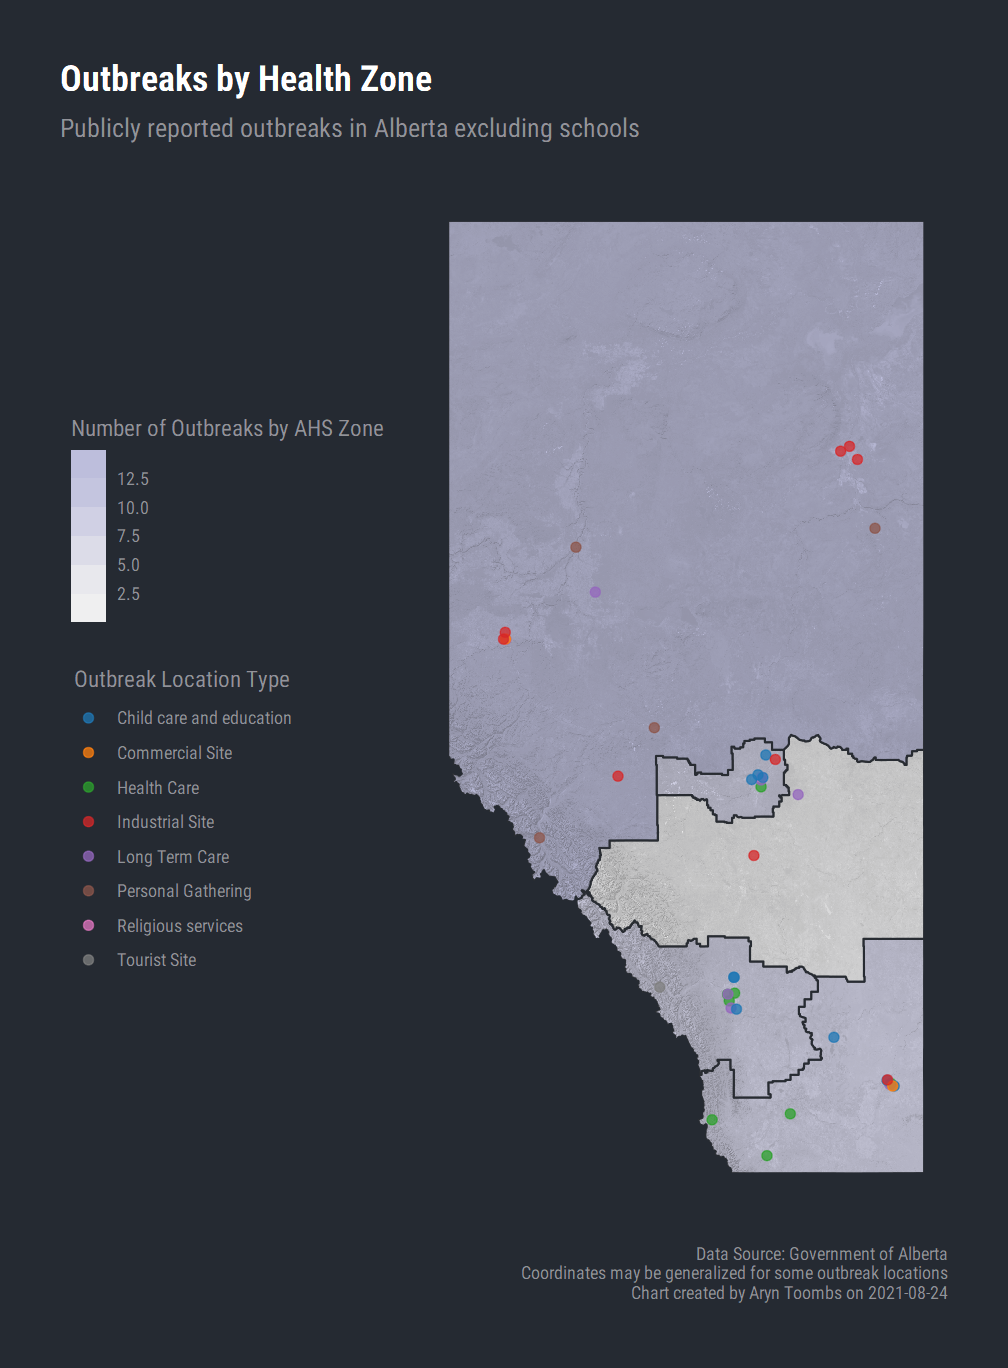
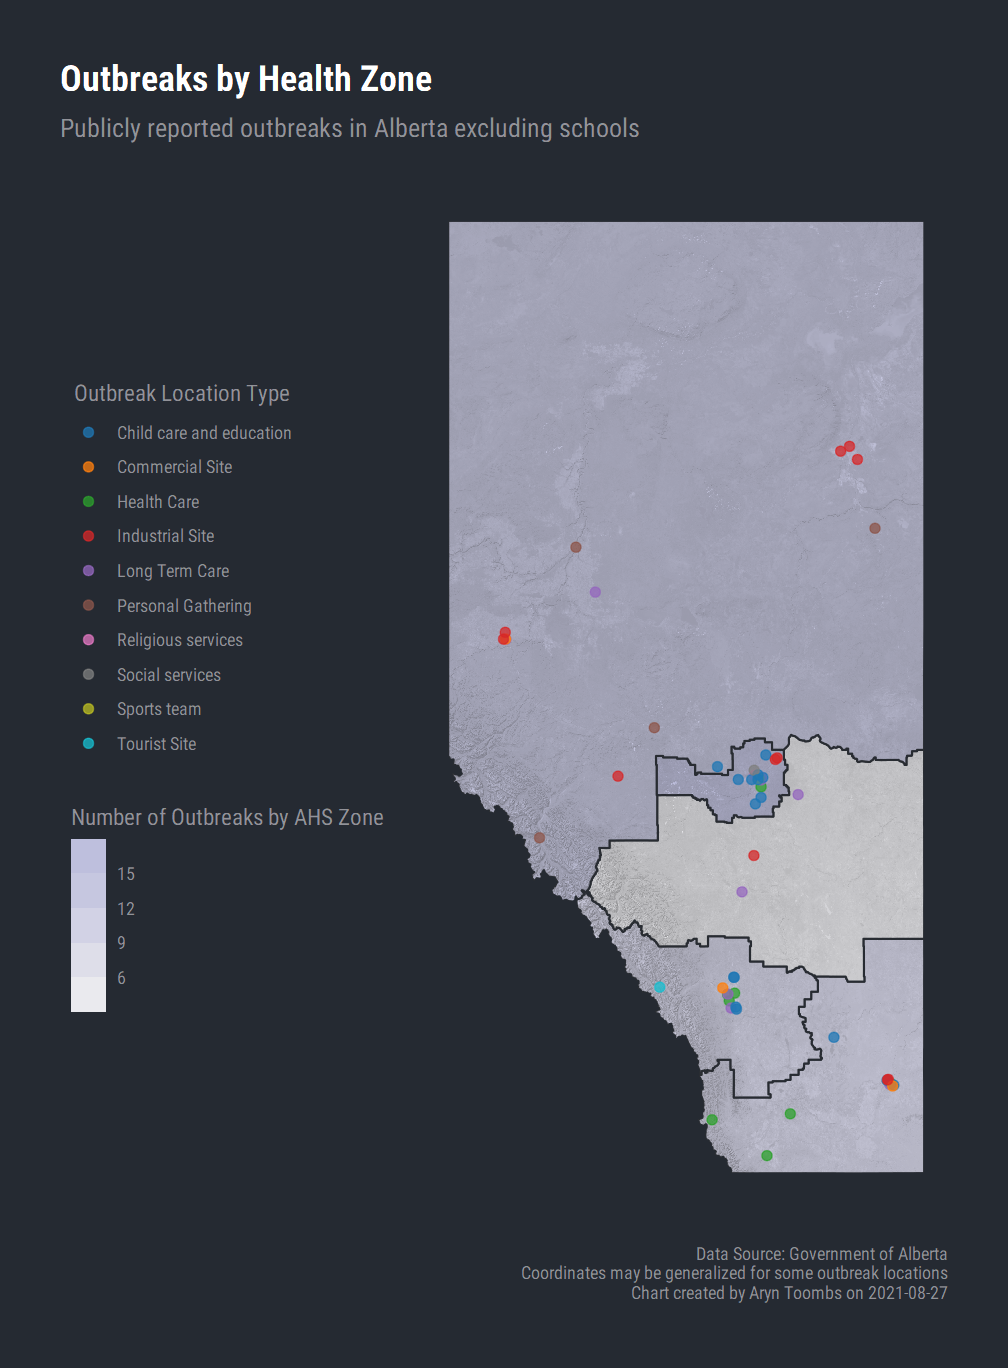
web

Changed region(s): [[0.0615, 0.2763, 0.369, 0.7368], [0.7073, 0.5526, 0.7688, 0.614], [0.7073, 0.7061, 0.7381, 0.7368]]

diff --git a/outbreaks/index.html b/outbreaks/index.html
@@ -168,7 +168,7 @@
       Calgary Zone
     </div>
     <div class="row box-bottom justify-content-center">
-      <h4>9</h4>
+      <h4>12</h4>
     </div>
   </div>
   <div class="col-sm ml-1 mr-1">
@@ -176,7 +176,7 @@
       Edmonton Zone
     </div>
     <div class="row box-bottom justify-content-center">
-      <h4>8</h4>
+      <h4>16</h4>
     </div>
   </div>
   <div class="col-sm ml-1 mr-1">
@@ -184,7 +184,7 @@
       South Zone
     </div>
     <div class="row box-bottom justify-content-center">
-      <h4>10</h4>
+      <h4>11</h4>
     </div>
   </div>
   <div class="col-sm ml-1 mr-1">
@@ -192,7 +192,7 @@
       Central Zone
     </div>
     <div class="row box-bottom justify-content-center">
-      <h4>2</h4>
+      <h4>3</h4>
     </div>
   </div>
   <div class="col-sm ml-1 mr-1">
@@ -200,12 +200,12 @@
       North Zone
     </div>
     <div class="row box-bottom justify-content-center">
-      <h4>13</h4>
+      <h4>14</h4>
     </div>
   </div>
 </div>
 <div class="row mb-3 pr-1 pt-1 justify-content-end">
-  <p class="m-1"><i class="bi bi-info-circle-fill"></i> Covid-19 outbreaks (not including schools, see below) current as of Tue, Aug 24, 2021. AHS non-school outbreak data updated on Tuesdays and Fridays.</p>
+  <p class="m-1"><i class="bi bi-info-circle-fill"></i> Covid-19 outbreaks (not including schools, see below) current as of Fri, Aug 27, 2021. AHS non-school outbreak data updated on Tuesdays and Fridays.</p>
 </div>
   <div class="row pl-3">
     <h4 class="body-display">Outbreak Charts</h4>
